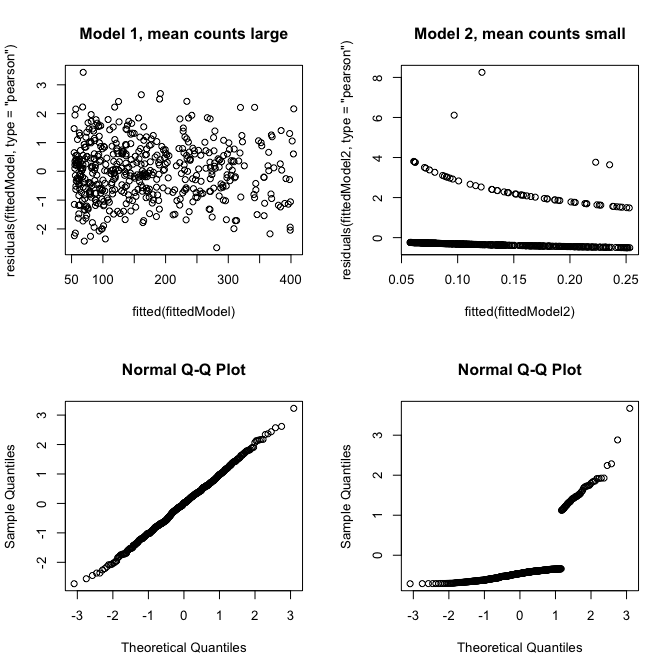
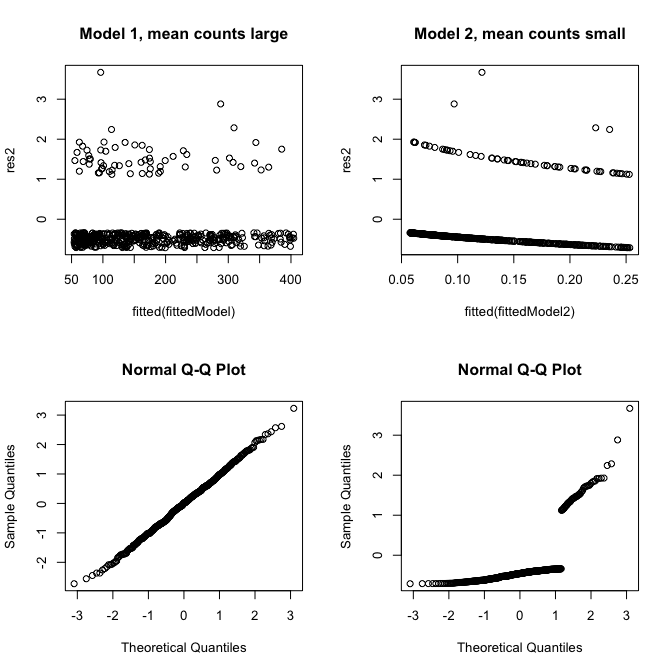
Updated deviance example

diff --git a/Code/Examples/DevianceResiduals.md b/Code/Examples/DevianceResiduals.md
@@ -25,19 +25,20 @@ res2 = residuals(fittedModel2, type = "deviance")
 ```
 
 
-## Visual comparison via Pearson residual plots and normal qq Plots
+## Visual comparison via residual plots and normal qq Plots
 
 
 ```r
 par(mfrow = c(2,2))
-plot(fitted(fittedModel), residuals(fittedModel, type = "pearson"), main = "Model 1, mean counts large")
-plot(fitted(fittedModel2), residuals(fittedModel2, type = "pearson"), main = "Model 2, mean counts small")
+plot(fitted(fittedModel), res2, main = "Model 1, mean counts large")
+plot(fitted(fittedModel2), res2, main = "Model 2, mean counts small")
 qqnorm(res )
 qqnorm(res2)
 ```
 
 ![](DevianceResiduals_files/figure-html/unnamed-chunk-2-1.png)<!-- -->
 
+For large counts, QQ is approximately normally distribtion, which is expected as the Poisson approaches normality for large means. For small counts, there is a notable deviation from normality. 
 
 
 ## Test for normality
